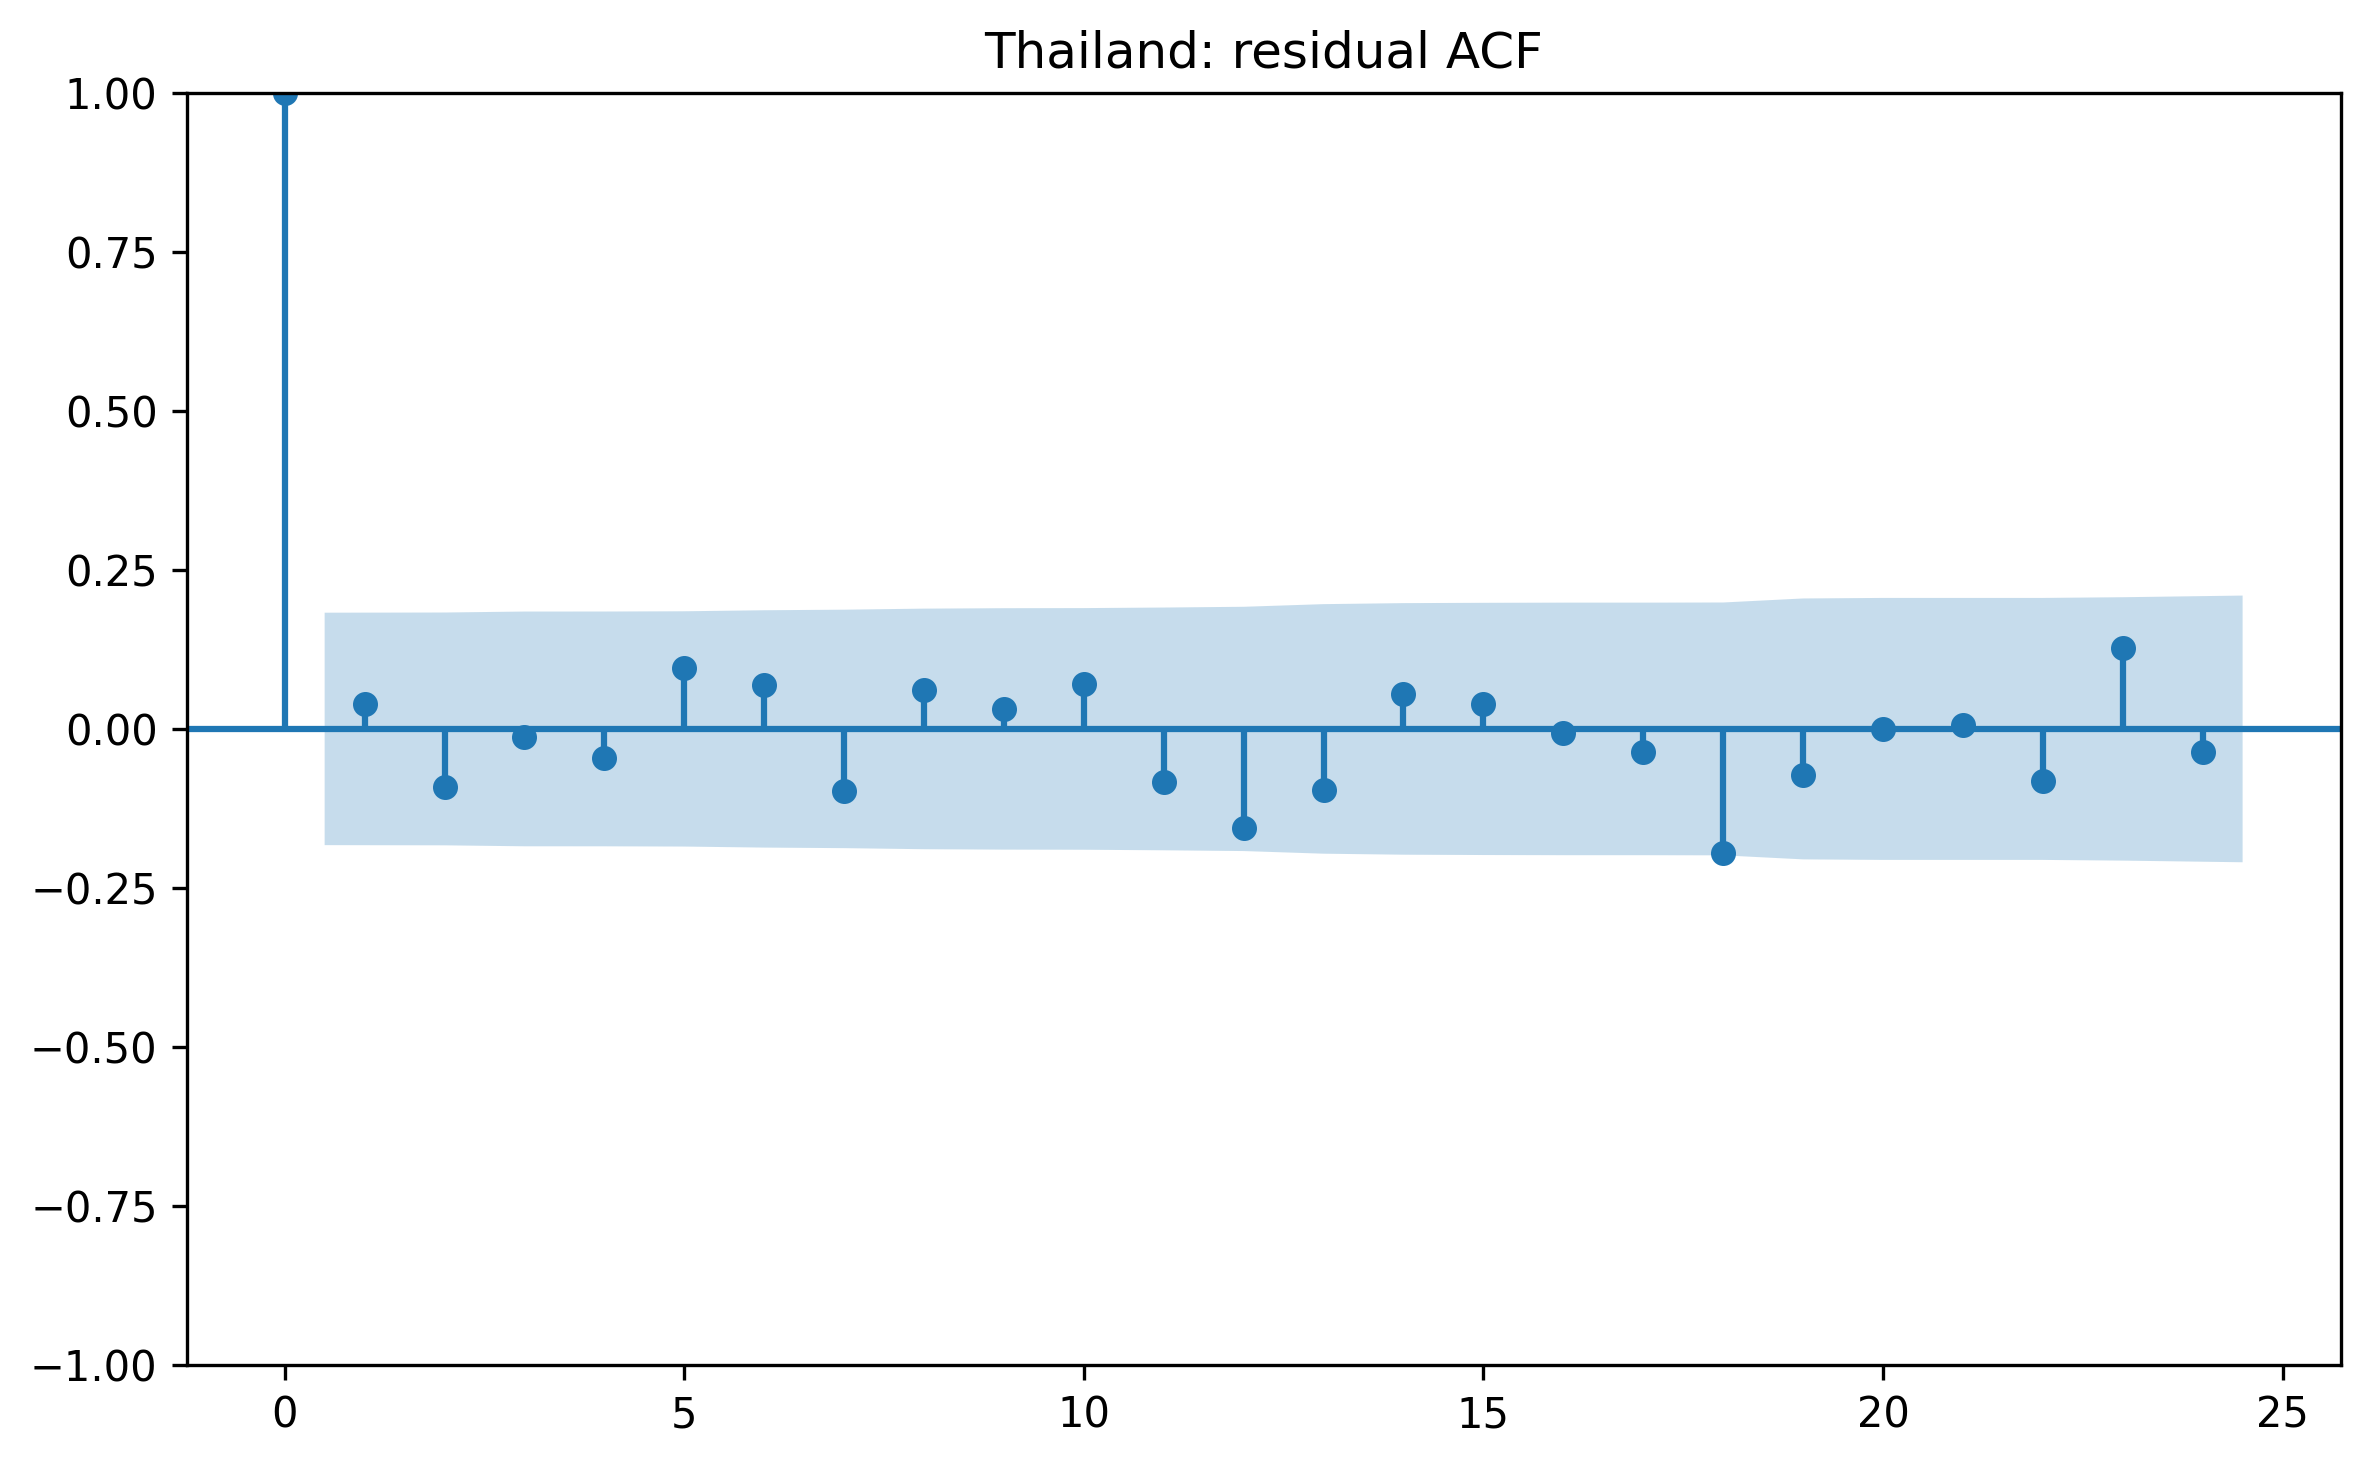
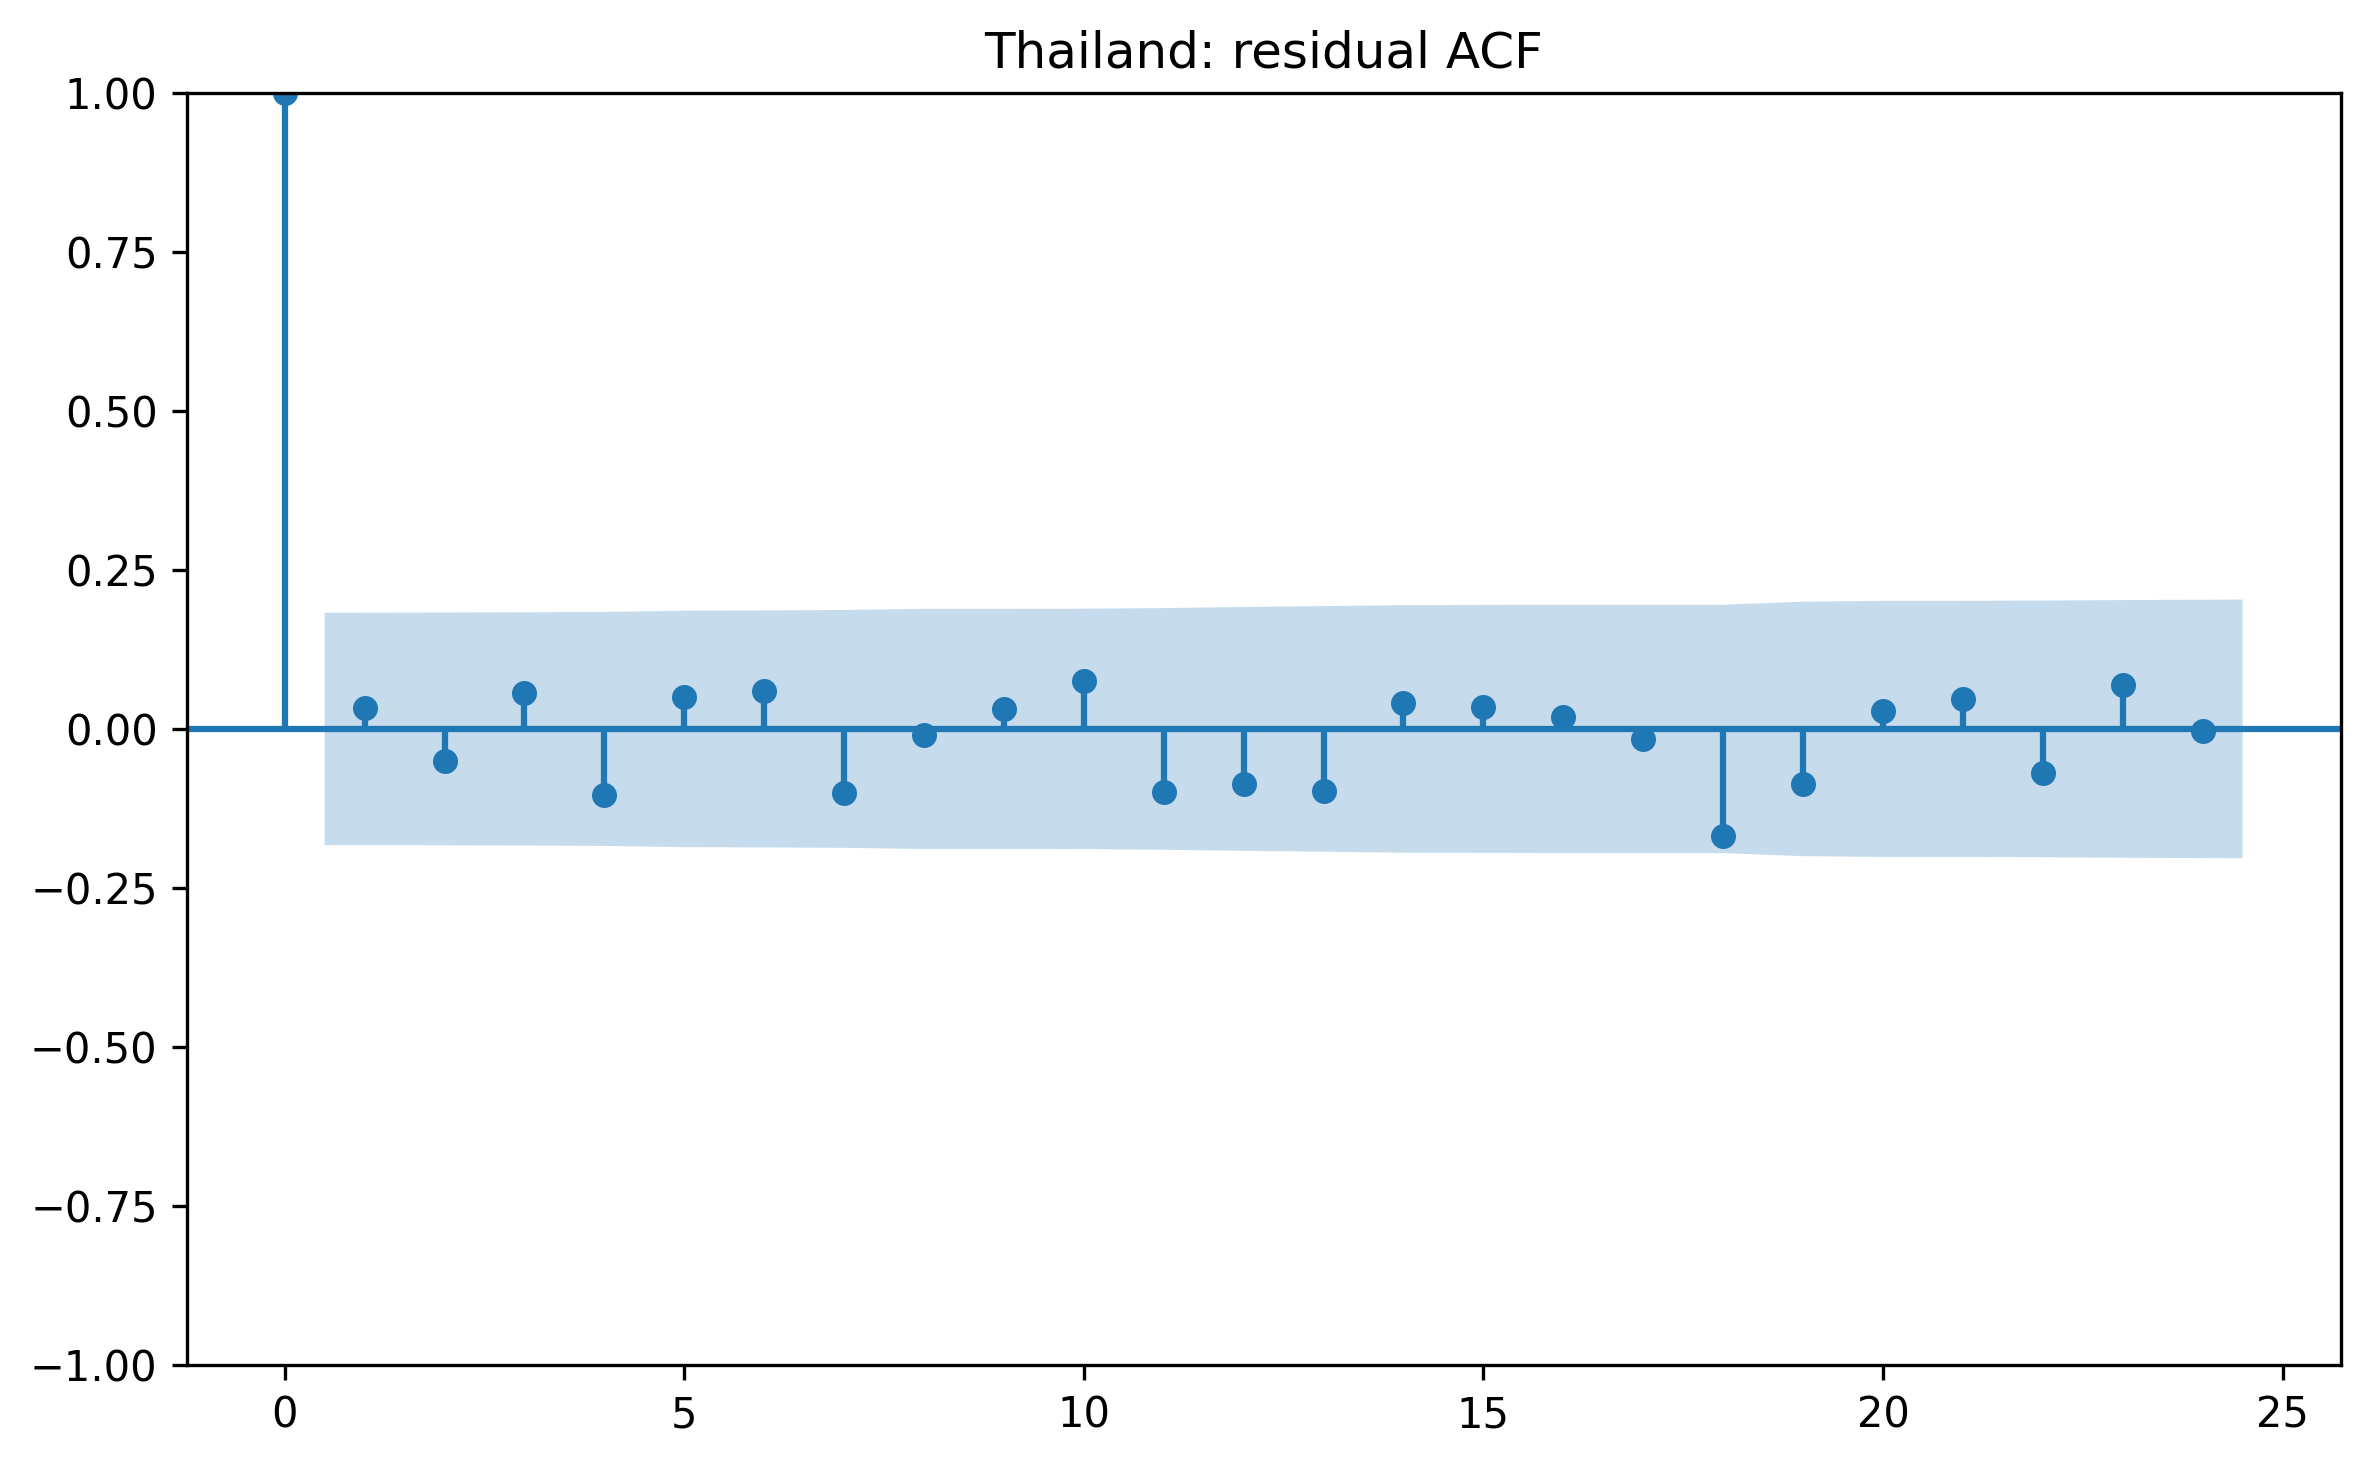
Update

diff --git a/armax_estimation.py b/armax_estimation.py
@@ -31,7 +31,7 @@ COUNTRIES = ["Thailand", "Philippines", "Korea", "Indonesia"]
 # FINAL ARMAX STRUCTURE
 # ----------------------------------------------------------------
 MODEL_SPEC = {
-    "Thailand": (1, 0, 1),
+    "Thailand": (2, 0, 1),
     "Philippines": (1, 0, 1),
     "Korea": (1, 0, 0),
     "Indonesia": (2, 0, 1)
